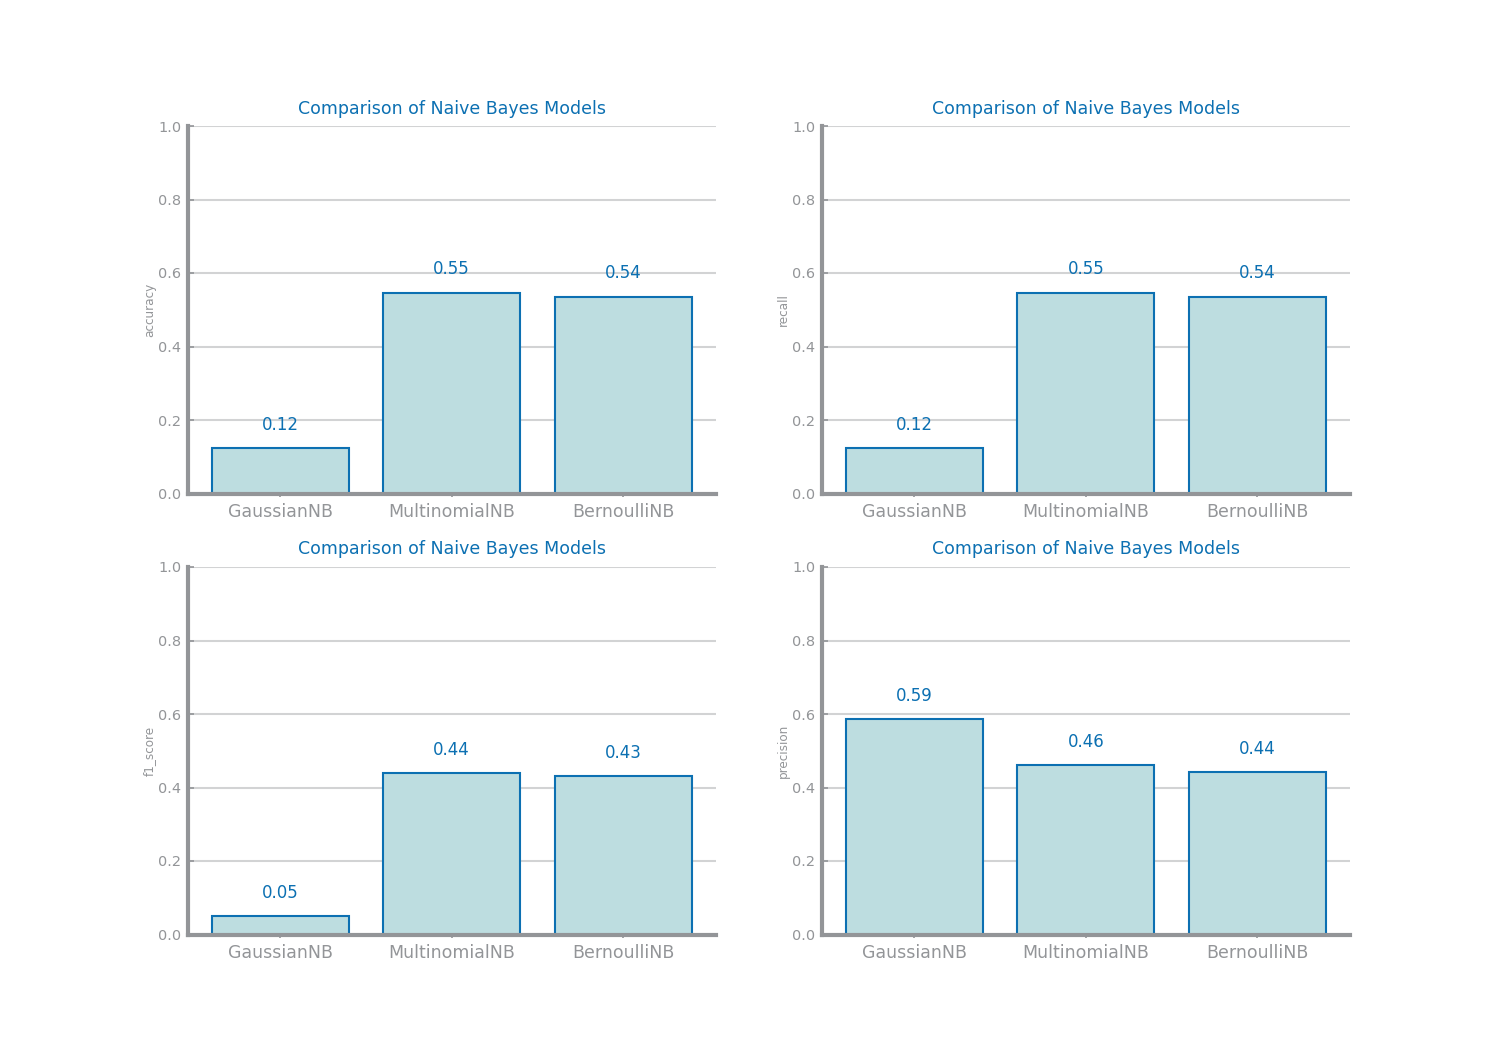
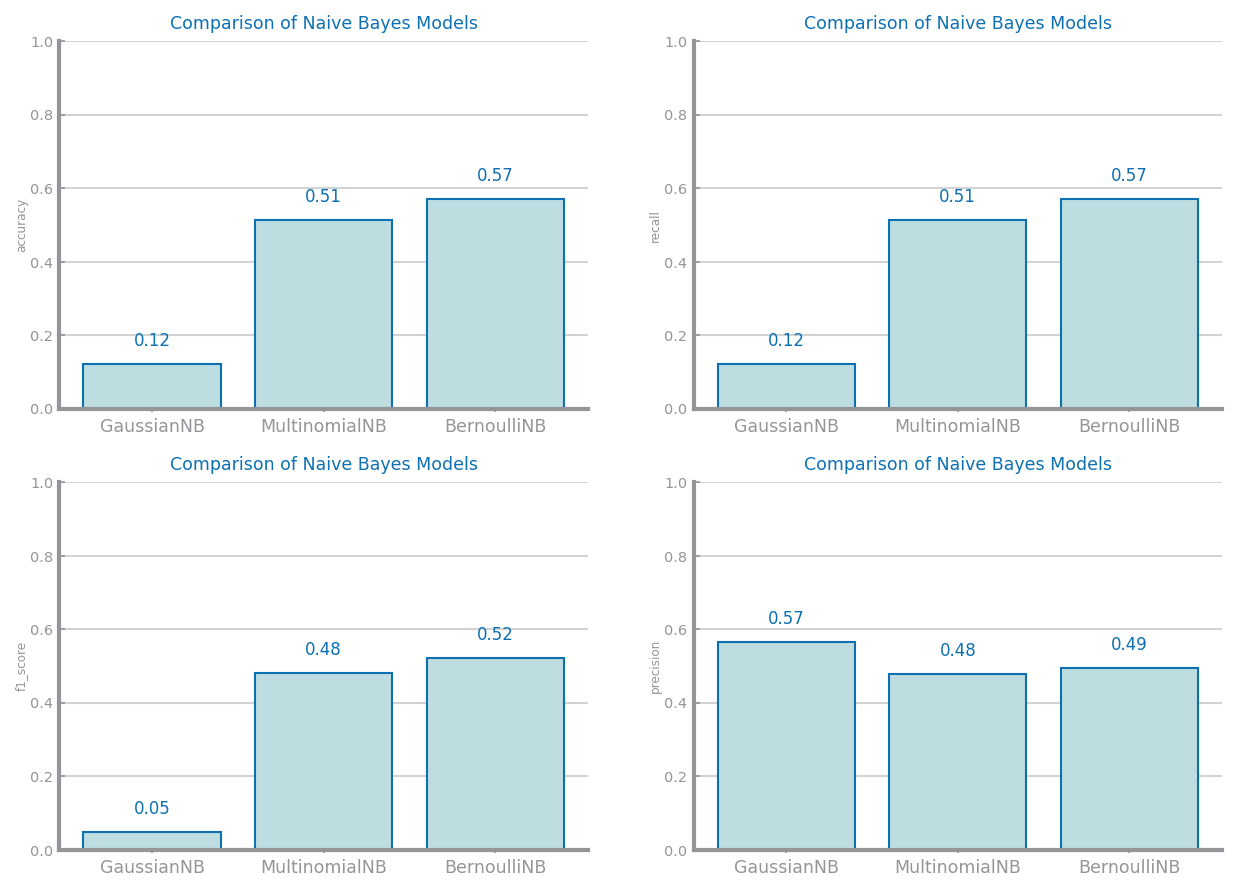
update lab missing

diff --git a/diabetesDataset/lab3/NBParameterization.py b/diabetesDataset/lab3/NBParameterization.py
@@ -6,14 +6,7 @@ from sklearn.naive_bayes import GaussianNB
 from ds_charts import plot_evaluation_results, bar_chart
 from sklearn.model_selection import train_test_split
 
-data = read_csv('zScoredData.csv')
-data = data.drop(columns=['Unnamed: 0.1','Unnamed: 0'])
-
-print([min(data[x]) for x in data.columns ])
-for x in data:
-    if any(data[x] <0 ):
-        data[x] = data[x] + 4
-
+data = read_csv('minMaxedData.csv')
 
 
 #%%
@@ -32,14 +25,14 @@ trnX, tstX, trnY, tstY = train_test_split(X, y, train_size=0.7, stratify = y)
 from ds_charts import plot_evaluation_results
 from sklearn.naive_bayes import GaussianNB, MultinomialNB
 
-clf = MultinomialNB()
+clf = BernoulliNB()
 clf.fit(trnX, trnY)
 prd_trn = clf.predict(trnX)
 prd_tst = clf.predict(tstX)
 
 plot_evaluation_results(labels, trnY, prd_trn, tstY, prd_tst)
 
-savefig('images/nb_bestresult.png')
+# savefig('images/nb_bestresult.png')
 #%%
 from sklearn.naive_bayes import GaussianNB, MultinomialNB, BernoulliNB, CategoricalNB
 from sklearn.metrics import accuracy_score, recall_score, f1_score, precision_score
@@ -76,4 +69,6 @@ bar_chart(xvalues, yvalues_3, title='Comparison of Naive Bayes Models', ylabel='
 fig.add_subplot(2, 2, 4)
 bar_chart(xvalues, yvalues_4, title='Comparison of Naive Bayes Models', ylabel='precision', percentage=True)
 
-savefig('images/nb_study.png')
+# savefig('images/nb_study.png')
+
+# %%

diff --git a/diabetesDataset/lab3/ds_charts.py b/diabetesDataset/lab3/ds_charts.py
@@ -124,9 +124,9 @@ def plot_evaluation_results(labels: ndarray, trn_y, prd_trn, tst_y, prd_tst):
 
     evaluation = {
         'Accuracy': [accuracy_score(trn_y, prd_trn), accuracy_score(tst_y, prd_tst)],
-        'Precision': [precision_score(trn_y, prd_trn, average='macro'), precision_score(tst_y, prd_tst, average='macro')],
-        'Recall': [recall_score(trn_y, prd_trn, average='macro'), recall_score(tst_y, prd_tst, average='macro')],
-        'F1-score': [f1_score(trn_y, prd_trn, average='macro'), f1_score(tst_y, prd_tst, average='macro')]
+        'Precision': [precision_score(trn_y, prd_trn, average='weighted'), precision_score(tst_y, prd_tst, average='weighted')],
+        'Recall': [recall_score(trn_y, prd_trn, average='weighted'), recall_score(tst_y, prd_tst, average='weighted')],
+        'F1-score': [f1_score(trn_y, prd_trn, average='weighted'), f1_score(tst_y, prd_tst, average='weighted')]
     }
     _, axs = subplots(1, 2, figsize=(2 * HEIGHT, HEIGHT))
     multiple_bar_chart(['Train', 'Test'], evaluation, ax=axs[0], title="Model's performance over Train and Test sets", percentage=True)

diff --git a/diabetesDataset/mlp/mlp_study.py b/diabetesDataset/mlp/mlp_study.py
@@ -67,7 +67,7 @@ for k in range(len(lr_type)):
         values[lr] = yvalues
     multiple_line_chart(max_iter, values, ax=axs[0, k], title=f'MLP with lr_type={d}',
                            xlabel='mx iter', ylabel='accuracy', percentage=True)
-savefig('images/mlp_study_tts.png')
+# savefig('images/mlp_study_tts.png')
 print(f'Best results with lr_type={best[0]}, learning rate={best[1]} and {best[2]} max iter, with accuracy={last_best}')
 # %% plot best results
 
